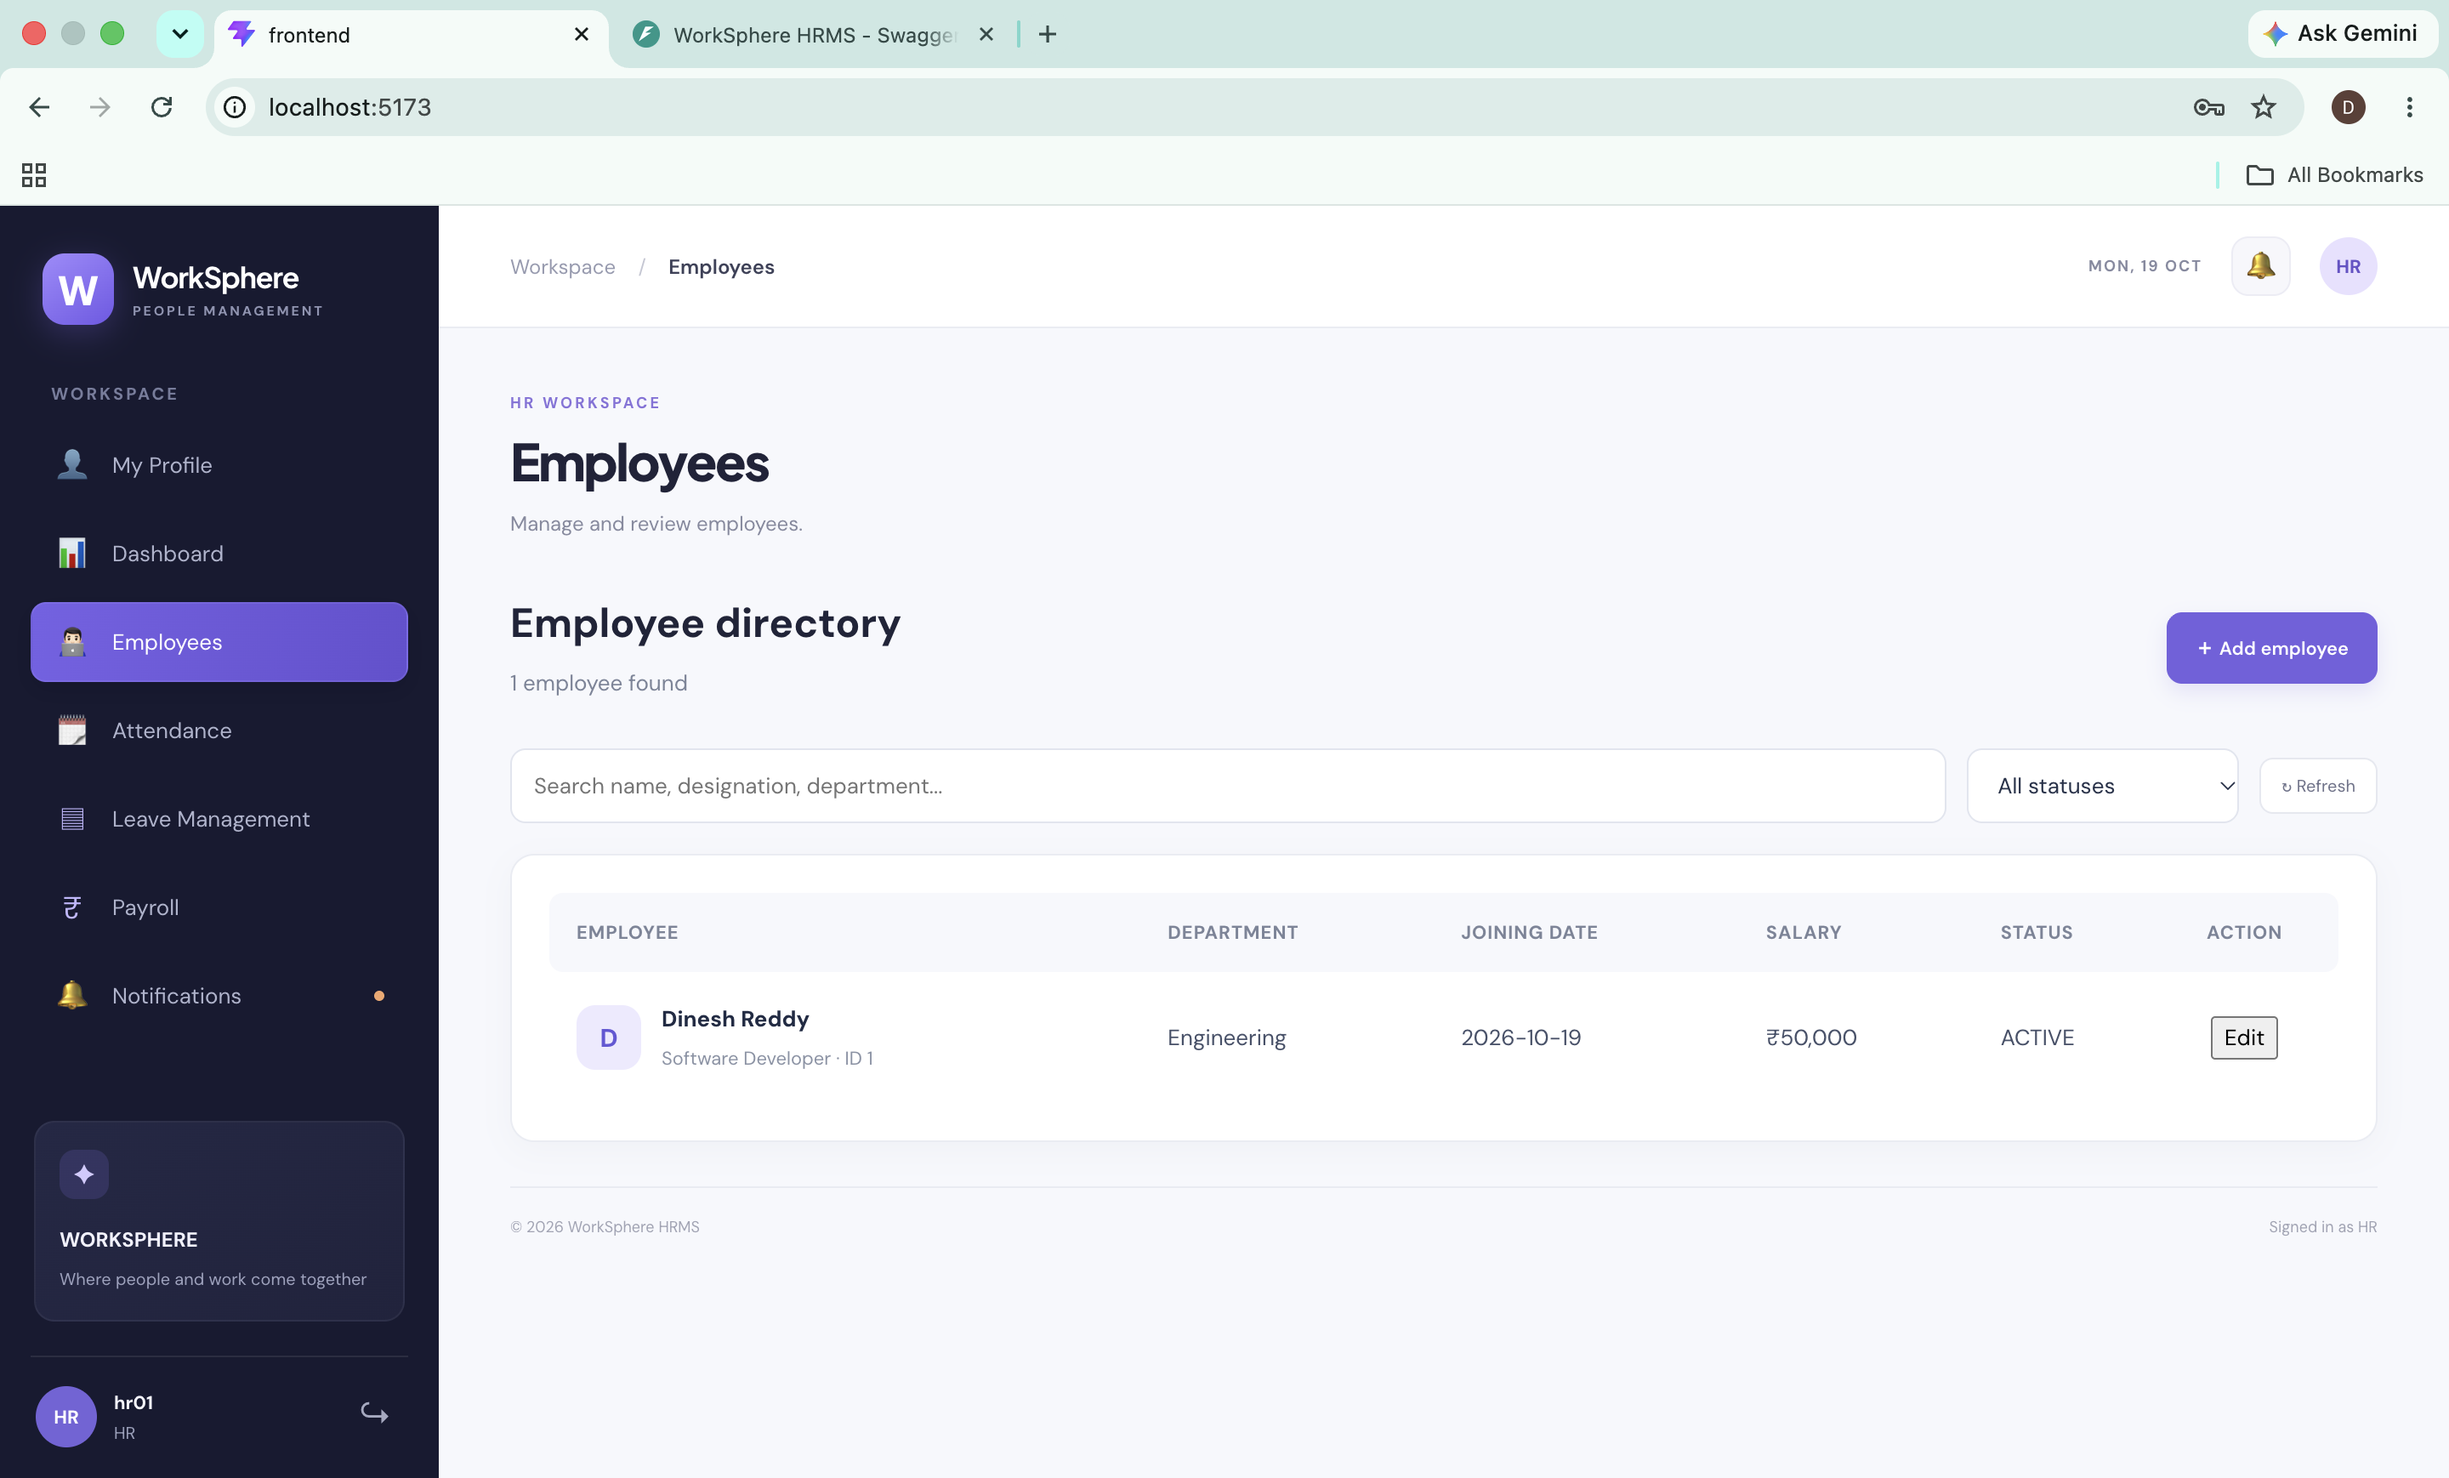
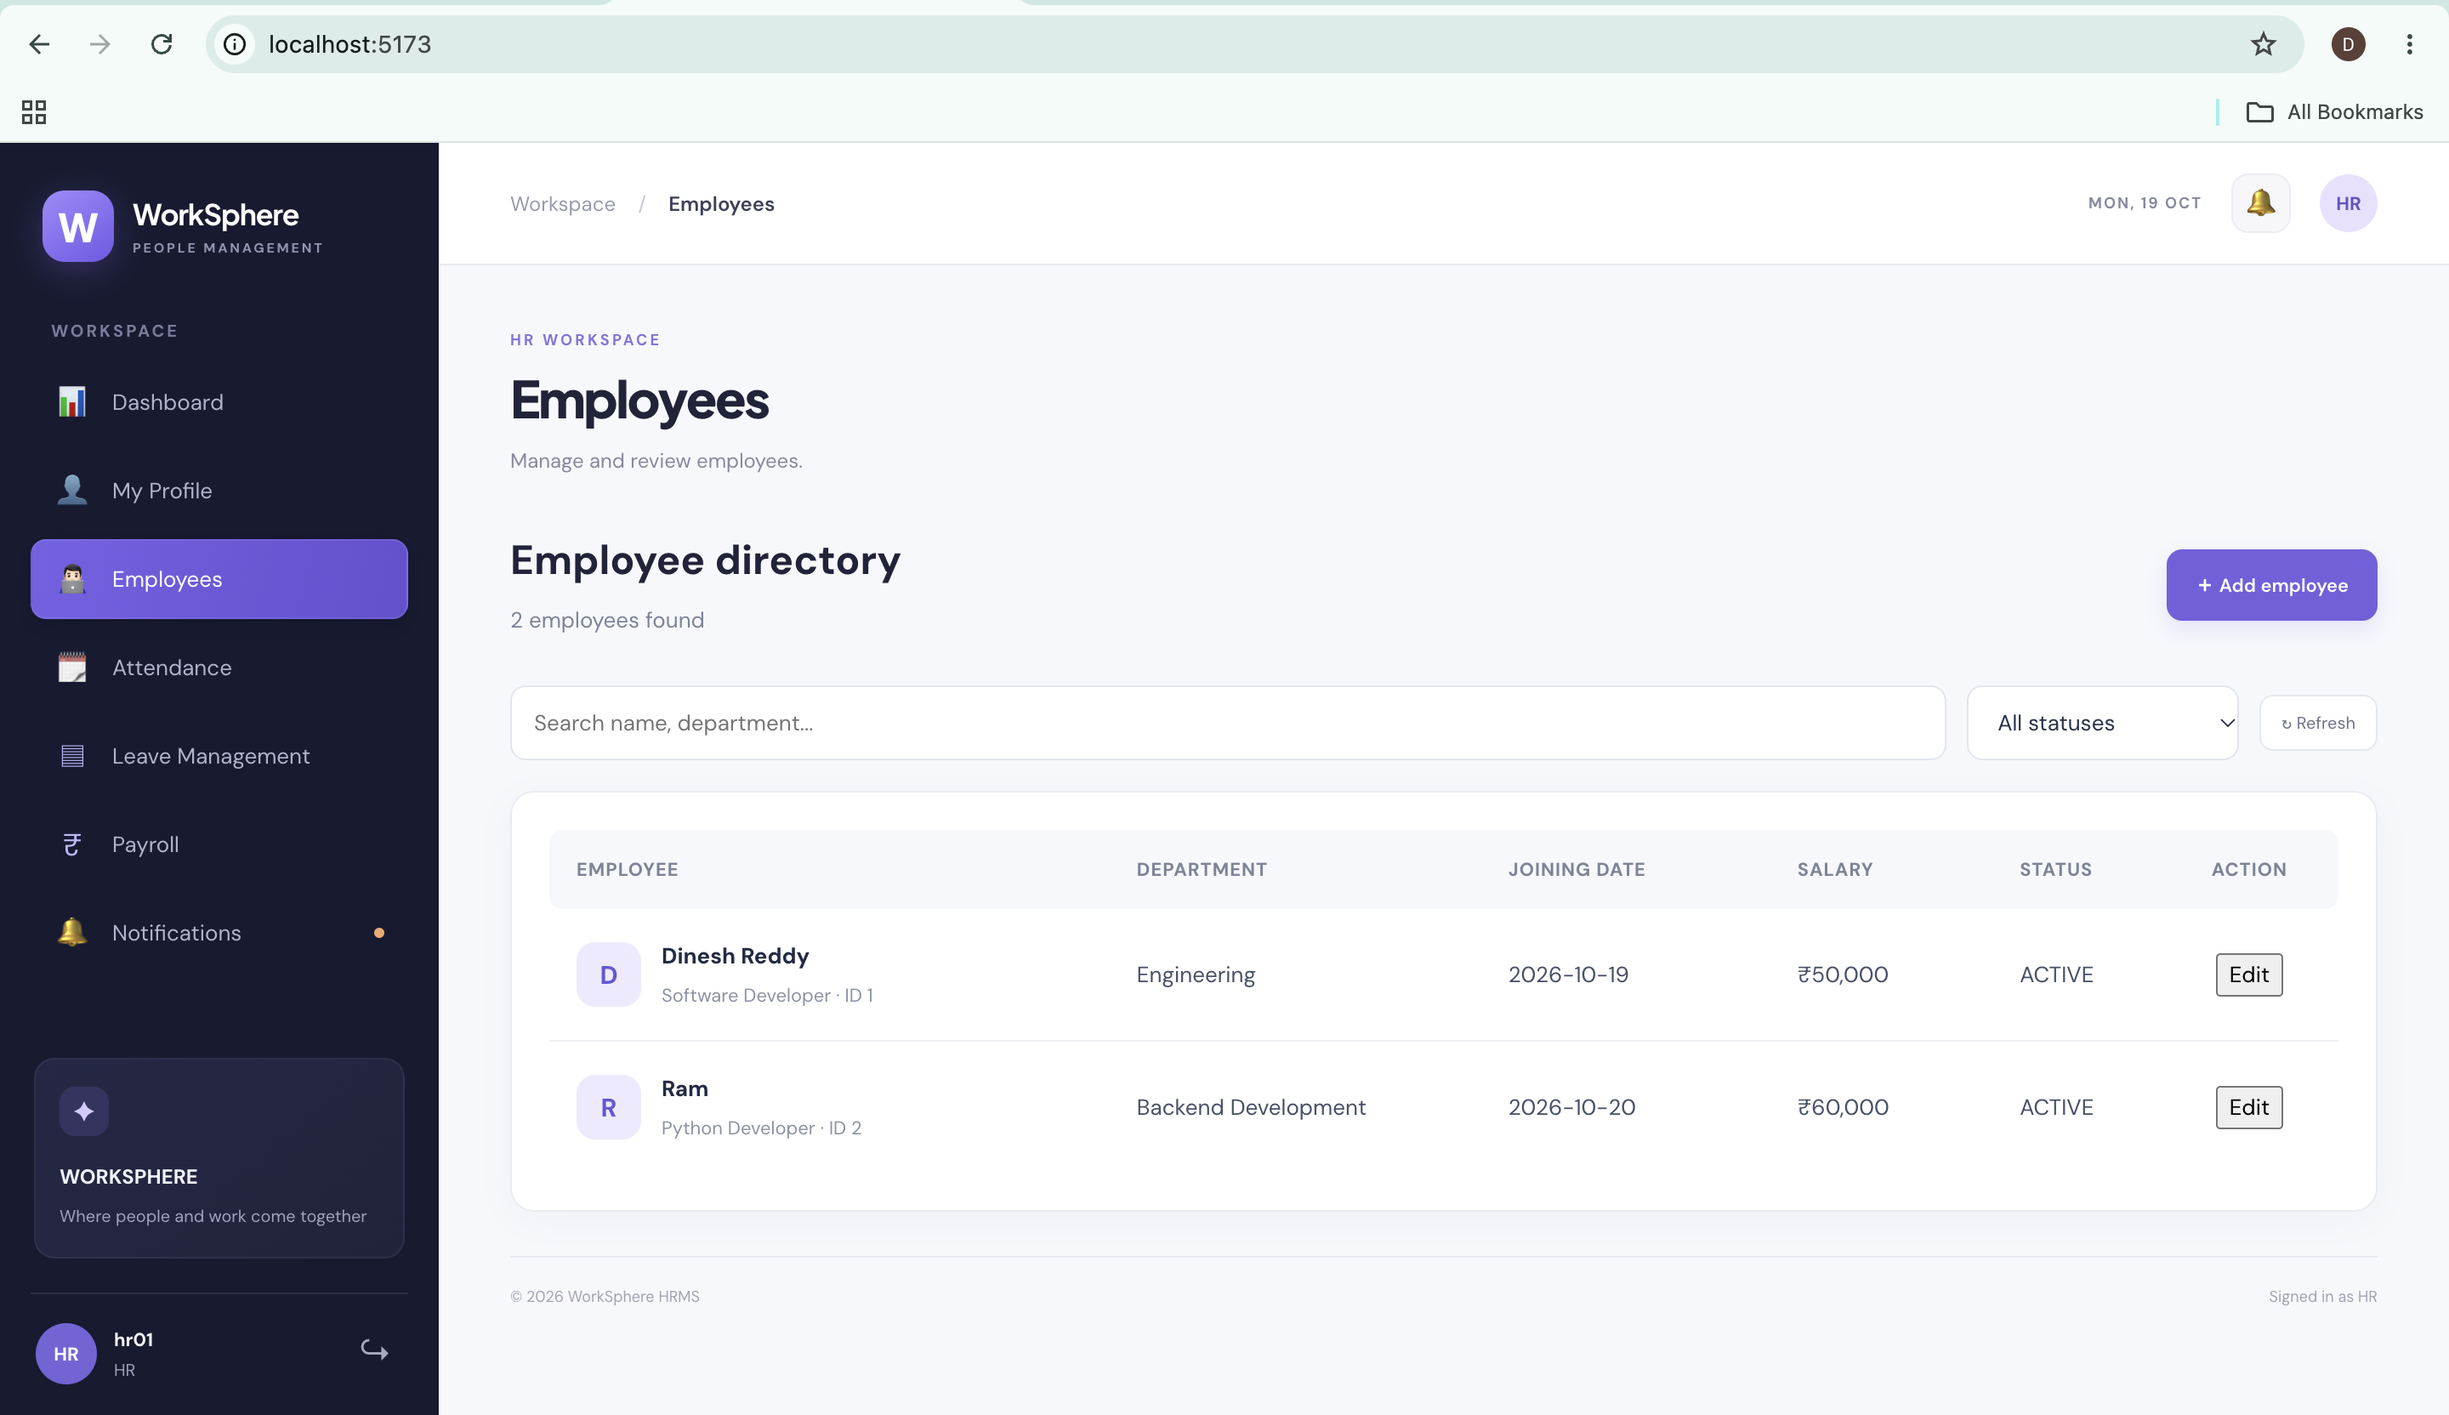
WorkSphere

diff --git a/frontend/src/App.jsx b/frontend/src/App.jsx
@@ -1,11 +1,10 @@
-
 import { useCallback, useEffect, useState } from "react";
 import { apiRequest, loginUser, logoutUser } from "./api";
 import "./App.css";
 
 const navigation = [
-  { name: "My Profile", icon: "👤" },
   { name: "Dashboard", icon: "📊" },
+  { name: "My Profile", icon: "👤" },
   { name: "Employees", icon: "👨🏻💻" },
   { name: "Attendance", icon: "🗓" },
   { name: "Leave Management", icon: "▤" },
@@ -42,6 +41,7 @@ function App() {
   const [employeeForm, setEmployeeForm] = useState(emptyEmployee);
   const [savingEmployee, setSavingEmployee] = useState(false);
   const [editingEmployee, setEditingEmployee] = useState(null);
+  const [unreadCount, setUnreadCount] = useState(0);
 
   const loadWorkspace = useCallback(async () => {
     try {
@@ -91,6 +91,21 @@ function App() {
       setLoading(false);
     }
   }, [loadWorkspace]);
+  useEffect(() => {
+  const loadUnreadCount = async () => {
+    try {
+      const data = await apiRequest("/api/notifications/");
+      const notifications = Array.isArray(data) ? data : [];
+      setUnreadCount(
+        notifications.filter((item) => !item.is_read).length
+      );
+    } catch (err) {
+      console.error("Could not load unread notification count:", err);
+    }
+  };
+
+  loadUnreadCount();
+}, []);
 
   useEffect(() => {
     if (user && ["HR", "ADMIN"].includes(user.role) && activePage === "Employees") {
@@ -375,13 +390,20 @@ function App() {
                 day: "numeric",
               }).toUpperCase()}
             </span>
-            <button
-              className="top-icon"
-              aria-label="Notifications"
-              onClick={() => setActivePage("Notifications")}
-            >
-              🔔
-            </button>
+
+<button
+  className="top-icon notification-bell"
+  aria-label="Notifications"
+  onClick={() => setActivePage("Notifications")}
+>
+  🔔
+  {unreadCount > 0 && (
+    <span className="notification-badge">
+      {unreadCount > 99 ? "99+" : unreadCount}
+    </span>
+  )}
+</button>
+
             <div className="top-avatar">{displayName.slice(0, 2).toUpperCase()}</div>
           </div>
         </header>
@@ -573,7 +595,7 @@ function App() {
               <div className="employee-filters">
                 <input
                   aria-label="Search employees"
-                  placeholder="Search name, designation, department..."
+                  placeholder="Search name, department..."
                   value={employeeSearch}
                   onChange={(event) => setEmployeeSearch(event.target.value)}
                 />
@@ -736,7 +758,9 @@ function App() {
                         </tr>
                       </thead>
                       <tbody>
-                        {employees.map((employee) => (
+                        {[...employees]
+  .sort((a, b) => a.id - b.id)
+  .map((employee) => (
                           <tr key={employee.id}>
                             <td>
                               <div className="employee-name-cell">
@@ -805,6 +829,12 @@ function App() {
 
 function AttendancePage({ user }) {
   const [records, setRecords] = useState([]);
+  const [overviewRecords, setOverviewRecords] = useState([]);
+  const [selectedDate, setSelectedDate] = useState(
+    new Date().toLocaleDateString("en-CA")
+  );
+  const [overviewLoading, setOverviewLoading] = useState(false);
+  const isHR = ["HR", "ADMIN"].includes(user?.role);
   const [historyLoading, setHistoryLoading] = useState(true);
   const [actionLoading, setActionLoading] = useState("");
   const [attendanceError, setAttendanceError] = useState("");
@@ -830,6 +860,27 @@ function AttendancePage({ user }) {
   useEffect(() => {
     loadHistory();
   }, [loadHistory]);
+
+    const loadOverview = useCallback(async () => {
+    if (!isHR) return;
+
+    setOverviewLoading(true);
+    try {
+      const data = await apiRequest(
+        `/api/attendance/overview?attendance_date=${selectedDate}`
+      );
+      setOverviewRecords(Array.isArray(data) ? data : []);
+    } catch (err) {
+      setAttendanceError(err.message || "Unable to load attendance overview.");
+    } finally {
+      setOverviewLoading(false);
+    }
+  }, [isHR, selectedDate]);
+    useEffect(() => {
+    if (isHR) {
+      loadOverview();
+    }
+  }, [isHR, loadOverview]);
 
   async function handleAttendanceAction(action) {
     setActionLoading(action);
@@ -909,9 +960,96 @@ function AttendancePage({ user }) {
   const checkedOut = Boolean(
     todayRecord && getValue(todayRecord, ["check_out", "check_out_time", "checkout_time"])
   );
-
+    const overviewSummary = {
+    present: overviewRecords.filter((r) => r.status === "PRESENT").length,
+    halfDay: overviewRecords.filter((r) => r.status === "HALF_DAY").length,
+    absent: overviewRecords.filter((r) => r.status === "ABSENT").length,
+    notMarked: overviewRecords.filter((r) => r.status === "NOT_MARKED").length,
+  };
   return (
     <div className="attendance-page">
+            {isHR && (
+        <div className="panel" style={{ padding: "24px", marginBottom: "22px" }}>
+          <div className="panel-heading">
+            <div>
+              <h2>Employee Attendance Overview</h2>
+              <p>Track attendance for all active employees</p>
+            </div>
+            <button
+              className="secondary-button"
+              onClick={loadOverview}
+              disabled={overviewLoading}
+            >
+              {overviewLoading ? "Loading..." : "↻ Refresh"}
+            </button>
+          </div>
+
+          <div style={{ margin: "18px 0" }}>
+            <label htmlFor="attendance-date">Attendance date</label>
+            <input
+              id="attendance-date"
+              type="date"
+              value={selectedDate}
+              onChange={(event) => setSelectedDate(event.target.value)}
+            />
+          </div>
+
+          <div className="dashboard-metrics">
+            <MetricCard icon="✅" tone="success" label="Present" value={overviewSummary.present} note="Full day" />
+            <MetricCard icon="🕒" tone="warning" label="Half day" value={overviewSummary.halfDay} note="Partial hours" />
+            <MetricCard icon="❌" tone="danger" label="Absent" value={overviewSummary.absent} note="Marked absent" />
+            <MetricCard icon="—" tone="neutral" label="Not marked" value={overviewSummary.notMarked} note="No record yet" />
+          </div>
+
+          {overviewLoading ? (
+            <div className="table-message">Loading employee attendance...</div>
+          ) : overviewRecords.length === 0 ? (
+            <div className="table-message">No active employees found.</div>
+          ) : (
+            <div className="table-scroll">
+              <table className="employee-table">
+                <thead>
+                  <tr>
+                    <th>Employee</th>
+                    <th>Department</th>
+                    <th>Date</th>
+                    <th>Check in</th>
+                    <th>Check out</th>
+                    <th>Working hours</th>
+                    <th>Status</th>
+                  </tr>
+                </thead>
+                <tbody>
+                  {overviewRecords.map((record) => (
+                    <tr key={record.employee_id}>
+                      <td>
+                        <strong>{record.full_name}</strong>
+                        <div style={{ color: "#7b8499", fontSize: "12px" }}>
+                          {record.designation}
+                        </div>
+                      </td>
+                      <td>{record.department}</td>
+                      <td>{formatDate(record.date)}</td>
+                      <td>{formatTime(record.check_in)}</td>
+                      <td>{formatTime(record.check_out)}</td>
+                      <td>
+                        {record.working_hours == null
+                          ? "—"
+                          : `${Number(record.working_hours).toFixed(2)} hrs`}
+                      </td>
+                      <td>
+                        <span className={`status-pill ${String(record.status).toLowerCase()}`}>
+                          {String(record.status).replaceAll("_", " ")}
+                        </span>
+                      </td>
+                    </tr>
+                  ))}
+                </tbody>
+              </table>
+            </div>
+          )}
+        </div>
+      )}
       <div className="panel" style={{ padding: "24px", marginBottom: "22px" }}>
         <div className="panel-heading">
           <div>

diff --git a/frontend/src/App.css b/frontend/src/App.css
@@ -1585,3 +1585,44 @@ button:focus-visible {
   background: #b91c1c;
   border-color: #b91c1c;
 }
+/* Attendance overview summary cards */
+.attendance-page .dashboard-metrics {
+  display: grid;
+  grid-template-columns: repeat(4, minmax(0, 1fr));
+  gap: 16px;
+  margin: 20px 0;
+}
+
+@media (max-width: 900px) {
+  .attendance-page .dashboard-metrics {
+    grid-template-columns: repeat(2, minmax(0, 1fr));
+  }
+}
+
+@media (max-width: 520px) {
+  .attendance-page .dashboard-metrics {
+    grid-template-columns: 1fr;
+  }
+}
+
+.notification-bell {
+  position: relative;
+}
+
+.notification-badge {
+  position: absolute;
+  top: -5px;
+  right: -5px;
+  min-width: 18px;
+  height: 18px;
+  padding: 0 4px;
+  border-radius: 999px;
+  background: #ef4444;
+  color: #fff;
+  font-size: 11px;
+  font-weight: 700;
+  display: flex;
+  align-items: center;
+  justify-content: center;
+  line-height: 1;
+}

diff --git a/backend/app/routers/attendance.py b/backend/app/routers/attendance.py
@@ -1,5 +1,4 @@
-
-from datetime import datetime, timezone
+from datetime import date, datetime, timezone, timedelta
 
 from fastapi import APIRouter, Depends, HTTPException
 from sqlalchemy.orm import Session
@@ -50,7 +49,9 @@ def check_in(
     if not record:
         record = Attendance(employee_id=employee.id, date=today)
 
-    record.check_in = datetime.now(timezone.utc)
+    record.check_in = datetime.now(timezone.utc).astimezone(
+    timezone(timedelta(hours=5, minutes=30))
+)
     record.status = "PRESENT"
     db.add(record)
     db.commit()
@@ -212,3 +213,54 @@ def mark_absent(
     db.commit()
     db.refresh(record)
     return record
+@router.get("/overview")
+def attendance_overview(
+    attendance_date: date | None = None,
+    db: Session = Depends(get_db),
+    current_user: User = Depends(require_roles("HR", "ADMIN")),
+):
+    selected_date = attendance_date or datetime.now().date()
+
+    employees = (
+        db.query(Employee)
+        .filter(Employee.status == "ACTIVE")
+        .order_by(Employee.full_name)
+        .all()
+    )
+
+    results = []
+    for employee in employees:
+        record = (
+            db.query(Attendance)
+            .filter(
+                Attendance.employee_id == employee.id,
+                Attendance.date == selected_date,
+            )
+            .first()
+        )
+
+        working_hours = None
+        if record and record.check_in and record.check_out:
+            start = record.check_in
+            end = record.check_out
+
+            if start.tzinfo is None:
+                start = start.replace(tzinfo=timezone.utc)
+            if end.tzinfo is None:
+                end = end.replace(tzinfo=timezone.utc)
+
+            working_hours = round((end - start).total_seconds() / 3600, 2)
+
+        results.append({
+            "employee_id": employee.id,
+            "full_name": employee.full_name,
+            "department": employee.department,
+            "designation": employee.designation,
+            "date": selected_date,
+            "check_in": record.check_in if record else None,
+            "check_out": record.check_out if record else None,
+            "working_hours": working_hours,
+            "status": record.status if record else "NOT_MARKED",
+        })
+
+    return results
